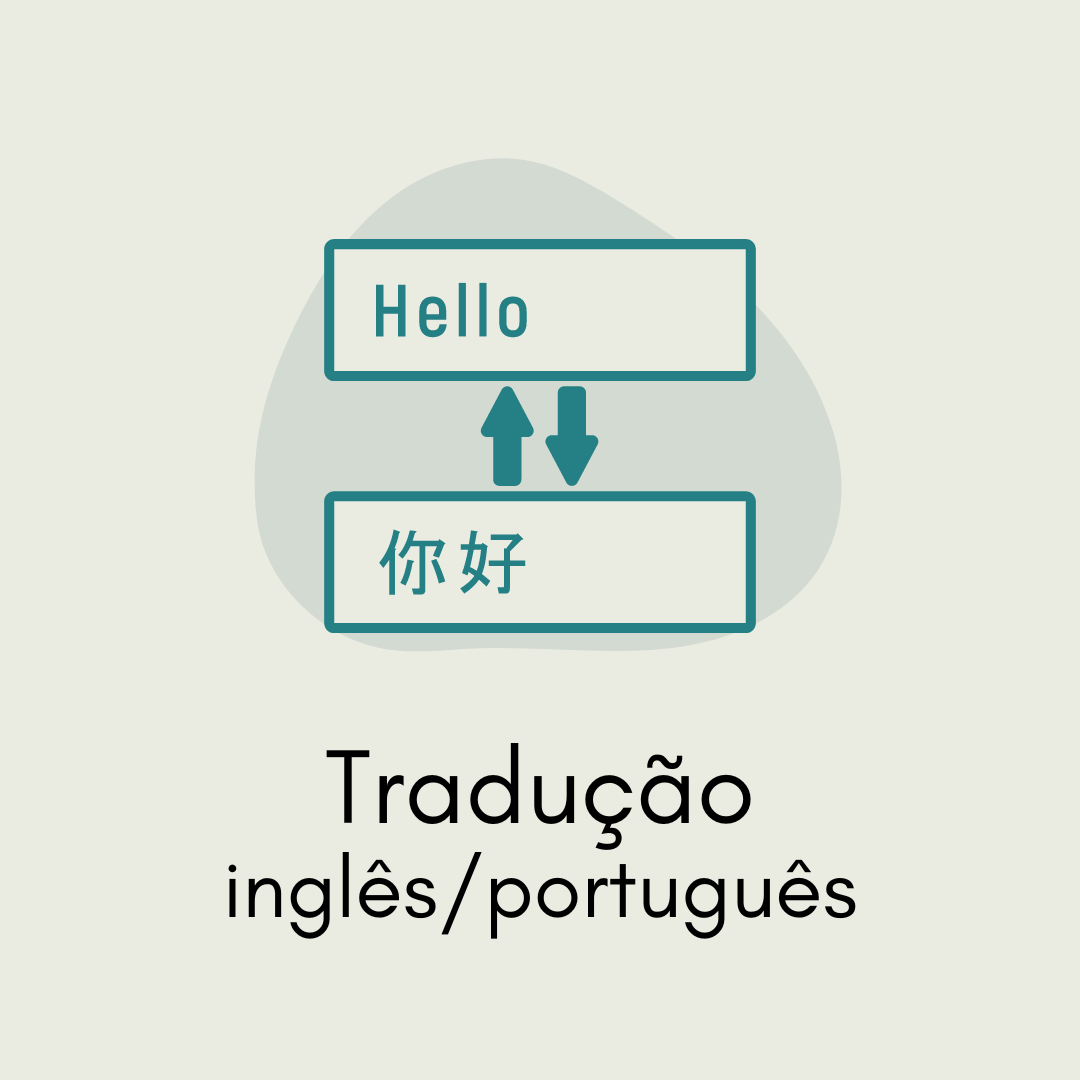
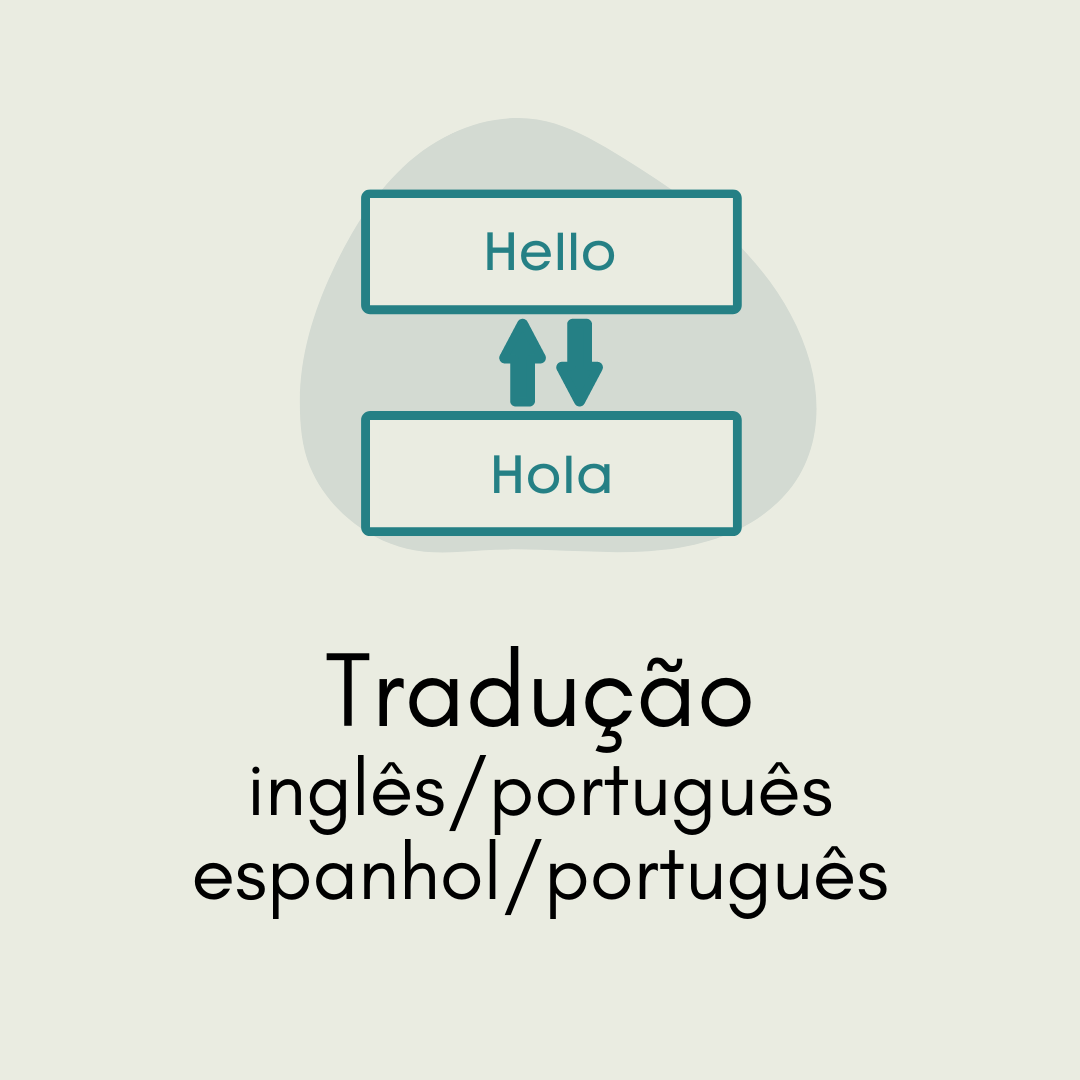
edição do espaçamento dos serviços

Changed region(s): [[0.1833, 0.1528, 0.825, 0.8861]]

diff --git a/index.html b/index.html
@@ -227,7 +227,7 @@
                     <div class="section-title text-lg-left mt-10 pb-20">
                         <h4 class="title wow fadeInUp" data-wow-duration="1.5s" data-wow-delay="0.6s">Sobre</h4>
                         <p class="text wow fadeInUp" data-wow-duration="1.5s" data-wow-delay="0.7s">O Meu Lattes, Minha Vida começou com a vontade de uma aluna em ajudar outros alunos no entendimento de algo que ela tinha facilidade: método científico e pesquisa. </p>
-                        <p class="text wow fadeInUp" data-wow-duration="1.5s" data-wow-delay="0.8s">A aluna, que à época estava na metade do doutorado, defendeu a tese, e viu que poderia ajudar com mais do que apenas revisão de trabalhos. </p>
+                        <p class="text wow fadeInUp" data-wow-duration="1.5s" data-wow-delay="0.8s">Essa aluna, Tainá Teixeira, que à época estava na metade do doutorado, defendeu a tese, e viu que poderia ajudar com mais do que apenas revisão de trabalhos. </p>
                     </div> <!-- section title -->
                 </div>
             </div>
@@ -235,9 +235,9 @@
                 <div class="col-xl-1 col-lg-8"></div>
                 <div class="col-xl-9 col-lg-8">
                     <div class="section-title text-lg-left mt-10 pb-20">                        
-                        <p class="text wow fadeInUp" data-wow-duration="1.5s" data-wow-delay="0.9s">Hoje, engenheira e doutora, Tainá oferece mentorias e soluções acadêmicas, e conseguiu formar uma pequena equipe (escolhida à dedo) para fornecer os serviços de maneira mais completa. </p>
-                        <p class="text wow fadeInUp" data-wow-duration="1.5s" data-wow-delay="1s">Nosso trabalho, hoje, é auxiliar graduandos, pós-graduandos, pesquisadores e professores a entender melhor sobre o método científico e métodos de pesquisa, permitindo que façam as pazes com a velha disciplina de metodologia científica que todo mundo aprendeu a odiar na faculdade. Antes de tudo, metodologia científica é mais do que as temidas regrinhas da ABNT.</p>
-                        <p class="text wow fadeInUp" data-wow-duration="1.5s" data-wow-delay="1.1s">Aqui, nosso diferencial é a empatia.</p>
+                        <p class="text wow fadeInUp" data-wow-duration="1.5s" data-wow-delay="0.6s">Hoje, engenheira e doutora, Tainá conseguiu formar uma pequena equipe (escolhida à dedo) para fornecer vários serviços de maneira mais completa. </p>
+                        <p class="text wow fadeInUp" data-wow-duration="1.5s" data-wow-delay="0.7s">Nosso trabalho, hoje, é auxiliar graduandos, pós-graduandos, pesquisadores e professores a entender melhor sobre o método científico e métodos de pesquisa, permitindo que façam as pazes com a velha disciplina de metodologia científica que todo mundo aprendeu a odiar na faculdade. Antes de tudo, metodologia científica é mais do que as temidas regrinhas da ABNT.</p>
+                        <p class="text wow fadeInUp" data-wow-duration="1.5s" data-wow-delay="0.8s">Aqui, nosso diferencial é a empatia.</p>
                     </div>
                 </div>
             </div>
@@ -254,7 +254,7 @@
                 <div class="col-xl-6 col-lg-8">
                     <div class="section-title text-center mt-30 pb-40">
                         <h4 class="title wow fadeInUp" data-wow-duration="1.5s" data-wow-delay="0.6s">Quem somos?</h4>
-                        <p class="text wow fadeInUp" data-wow-duration="1.5s" data-wow-delay="1s">Nossa equipe é formada por pessoas comprometidas com o seu trabalho!</p>
+                        <p class="text wow fadeInUp" data-wow-duration="1.5s" data-wow-delay="0.8s">Nossa equipe é formada por pessoas comprometidas com o seu trabalho!</p>
                     </div> <!-- section title -->
                 </div>
             </div> <!-- row -->
@@ -370,7 +370,7 @@
                 </div>
             </div> <!-- row -->
             <div class="row grid">
-                <div class="col-lg-4 col-sm-6 mentoria">
+                <div class="col-lg-3 col-sm-6 mentoria">
                     <div class="single-portfolio mt-30 wow fadeInUp" data-wow-duration="1.5s" data-wow-delay="0.2s">
                         <div class="portfolio-image">
                             <img src="assets/images/portfolio-1.png" alt="">
@@ -387,11 +387,11 @@
                         </div>
                         <div class="portfolio-text">
                             <h4 class="portfolio-title"><a href="#">Mentoria acadêmica</a></h4>
-                            <p class="text">A mentoria visa te auxiliar na construção do seu trabalho, seja ele um artigo, um TCC, uma dissertação, ou mesmo uma tese. É como uma orientação, mas voltada para a construção da pesquisa e do trabalho, consolidação de ideias e execução do método escolhido. Vamos fazer as pazes com a disciplina de metodologia científica? Mentorias virtuais.</p>
+                            <p class="text">A mentoria visa te auxiliar na construção do seu trabalho, seja ele um artigo, um TCC, uma dissertação, ou mesmo uma tese. É como uma orientação, mas voltada para a construção da pesquisa e do trabalho, consolidação de ideias e execução do método escolhido.</p>
                         </div>
                     </div> <!-- single portfolio -->
                 </div>
-                <div class="col-lg-4 col-sm-6 revisao">
+                <div class="col-lg-3 col-sm-6 revisao">
                     <div class="single-portfolio mt-30 wow fadeInUp" data-wow-duration="1.5s" data-wow-delay="0.4s">
                         <div class="portfolio-image">
                             <img src="assets/images/portfolio-2.png" alt="">
@@ -412,7 +412,7 @@
                         </div>
                     </div> <!-- single portfolio -->
                 </div>
-                <div class="col-lg-4 col-sm-6 revisao">
+                <div class="col-lg-3 col-sm-6 revisao">
                     <div class="single-portfolio mt-30 wow fadeInUp" data-wow-duration="1.5s" data-wow-delay="0.4s">
                         <div class="portfolio-image">
                             <img src="assets/images/portfolio-3.png" alt="">
@@ -429,11 +429,11 @@
                         </div>
                         <div class="portfolio-text">
                             <h4 class="portfolio-title"><a href="#">Tradução</a></h4>
-                            <p class="text">A gente vai se deparar com Resumo/Abstract e com revistas e periódicos que só aceitam publicação em inglês. E pior, quando sequer dominamos outra língua. A gente faz isso! E ainda te entregamos declaração do tradutor.</p>
+                            <p class="text">A gente vai se deparar com Resumo/Abstract e com revistas e periódicos que só aceitam publicação em inglês e/ou espanhol. E pior, quando sequer dominamos outra língua. A gente faz isso! E ainda te entregamos declaração do tradutor.</p>
                         </div>
                     </div> <!-- single portfolio -->
                 </div>
-                <div class="col-lg-4 col-sm-6 revisao">
+                <div class="col-lg-3 col-sm-6 revisao">
                     <div class="single-portfolio mt-30 wow fadeInUp" data-wow-duration="1.5s" data-wow-delay="0.4s">
                         <div class="portfolio-image">
                             <img src="assets/images/portfolio-4.png" alt="">
@@ -454,7 +454,7 @@
                         </div>
                     </div> <!-- single portfolio -->
                 </div>
-                <div class="col-lg-4 col-sm-6 revisao">
+                <div class="col-lg-3 col-sm-6 revisao">
                     <div class="single-portfolio mt-30 wow fadeInUp" data-wow-duration="1.5s" data-wow-delay="0.7s">
                         <div class="portfolio-image">
                             <img src="assets/images/portfolio-5.png" alt="">
@@ -475,7 +475,7 @@
                         </div>
                     </div> <!-- single portfolio -->
                 </div>
-                <div class="col-lg-4 col-sm-6 servicos">
+                <div class="col-lg-3 col-sm-6 servicos">
                     <div class="single-portfolio mt-30 wow fadeInUp" data-wow-duration="1.5s" data-wow-delay="0.2s">
                         <div class="portfolio-image">
                             <img src="assets/images/portfolio-6.png" alt="">
@@ -496,7 +496,7 @@
                         </div>
                     </div> <!-- single portfolio -->
                 </div>
-                <div class="col-lg-4 col-sm-6 servicos">
+                <div class="col-lg-3 col-sm-6 servicos">
                     <div class="single-portfolio mt-30 wow fadeInUp" data-wow-duration="1.5s" data-wow-delay="0.4s">
                         <div class="portfolio-image">
                             <img src="assets/images/portfolio-7.png" alt="">
@@ -517,7 +517,7 @@
                         </div>
                     </div> <!-- single portfolio -->
                 </div>
-                <div class="col-lg-4 col-sm-6 servicos">
+                <div class="col-lg-3 col-sm-6 servicos">
                     <div class="single-portfolio mt-30 wow fadeInUp" data-wow-duration="1.5s" data-wow-delay="0.7s">
                         <div class="portfolio-image">
                             <img src="assets/images/portfolio-8.png" alt="">
@@ -538,7 +538,7 @@
                         </div>
                     </div> <!-- single portfolio -->
                 </div>
-                <div class="col-lg-4 col-sm-6 servicos">
+                <div class="col-lg-3 col-sm-6 servicos">
                     <div class="single-portfolio mt-30 wow fadeInUp" data-wow-duration="1.5s" data-wow-delay="0.4s">
                         <div class="portfolio-image">
                             <img src="assets/images/portfolio-9.png" alt="">
@@ -559,7 +559,7 @@
                         </div>
                     </div> <!-- single portfolio -->
                 </div>
-                <div class="col-lg-4 col-sm-6 mentoria">
+                <div class="col-lg-3 col-sm-6 mentoria">
                     <div class="single-portfolio mt-30 wow fadeInUp" data-wow-duration="1.5s" data-wow-delay="0.4s">
                         <div class="portfolio-image">
                             <img src="assets/images/portfolio-12.png" alt="">
@@ -580,7 +580,7 @@
                         </div>
                     </div> <!-- single portfolio -->
                 </div>
-                <div class="col-lg-4 col-sm-6 servicos">
+                <div class="col-lg-3 col-sm-6 servicos">
                     <div class="single-portfolio mt-30 wow fadeInUp" data-wow-duration="1.5s" data-wow-delay="0.4s">
                         <div class="portfolio-image">
                             <img src="assets/images/portfolio-10.png" alt="">
@@ -601,7 +601,7 @@
                         </div>
                     </div> <!-- single portfolio -->
                 </div>
-                <div class="col-lg-4 col-sm-6 mentoria">
+                <div class="col-lg-3 col-sm-6 mentoria">
                     <div class="single-portfolio mt-30 wow fadeInUp" data-wow-duration="1.5s" data-wow-delay="0.4s">
                         <div class="portfolio-image">
                             <img src="assets/images/portfolio-11.png" alt="">
